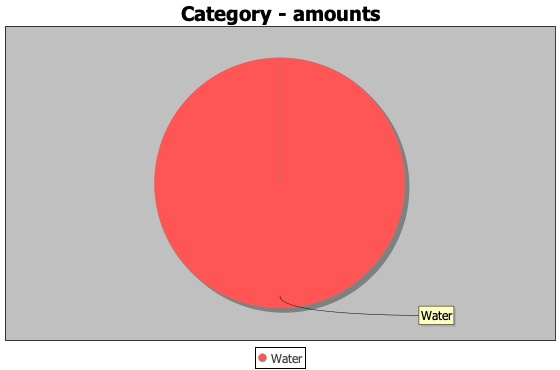
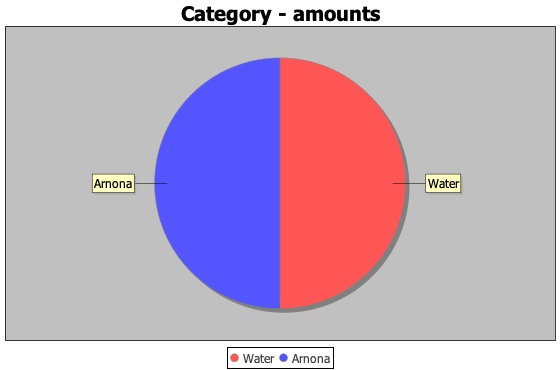
addCostItem test done

diff --git a/tests/costManager/model/DerbyDBModelTest.java b/tests/costManager/model/DerbyDBModelTest.java
@@ -1,51 +1,61 @@
-//package costManager.model;
-//
-//import org.junit.After;
-//import org.junit.Before;
-//import org.junit.Test;
-//
-//import static org.junit.Assert.*;
-//import costManager.model.*;
-//
-//public class DerbyDBModelTest {
-//
-//    private DerbyDBModel model = new DerbyDBModel();
-//    CostItem item;
-//    Category cat;
-//    @Before
-//    public void setUp() throws Exception {
-//        model.createConnection();
-//        cat = new Category(1,"Water");
-//        item = new CostItem(10, cat,45.5, Currency.ILS,"Salary","2020-02-20");
-//
-//    }
-//
-//    @After
-//    public void tearDown() throws Exception {
-//        cat = null;
-//        item = null;
-//        model.stopConnection();
-//    }
-//
-//    @Test
-//    public void addCostItem() throws CostManagerException {
-//        String expected = "Problem with adding cost!";
-//        assertEquals(expected, model.addCostItem(),null);
-//    }
-//
-//    @Test
-//    public void deleteCostItem() {
-//    }
-//
-//    @Test
-//    public void addNewCategory() {
-//    }
-//
-//    @Test
-//    public void getCostReport() {
-//    }
-//
-//    @Test
-//    public void getPieChart() {
-//    }
-//}
+package costManager.model;
+
+import org.junit.After;
+import org.junit.Before;
+import org.junit.Test;
+
+import static org.junit.Assert.*;
+import costManager.model.*;
+
+public class DerbyDBModelTest {
+
+    private DerbyDBModel model = new DerbyDBModel();
+    CostItem item;
+    Category cat;
+    @Before
+    public void setUp() throws Exception {
+        model.createConnection();
+        cat = new Category(1,"Water");
+        item = new CostItem(10, cat,45.5, Currency.ILS,"Salary","2020-02-20");
+
+    }
+
+    @After
+    public void tearDown() throws Exception {
+        cat = null;
+        item = null;
+        model.stopConnection();
+    }
+
+    @Test
+    public void addCostItem(){
+        String expected = "Problem with adding cost!";
+        try {
+            model.addCostItem(item);
+        } catch (CostManagerException e) {
+            assertEquals(expected,e.getMessage());
+        }
+    }
+
+    @Test
+    public void deleteCostItem() {
+    }
+
+    @Test
+    public void addNewCategory() {
+        String expected = "Problem with adding cost!";
+        try {
+            model.addNewCategory(cat);
+        } catch (CostManagerException e) {
+            assertEquals(expected,e.getMessage());
+        }
+    }
+
+    @Test
+    public void getCostReport() {
+    }
+
+    @Test
+    public void getPieChart() {
+    }
+}

diff --git a/src/costManager/model/Demo.java b/src/costManager/model/Demo.java
@@ -20,7 +20,7 @@ public class Demo {
 //            for(int i = 0; i<categoryList.size(); i++) {
 //                System.out.println(categoryList.get(i));
 //            }
-//            CostItem item = new CostItem(10, categoryList.get(2),45.5, Currency.ILS,"Salary","2020-02-20");
+//            CostItem item = new CostItem(10, categoryList.get(2),45.5, Currency.ILS,"Salary","2019-02-20");
 //            CostItem item1 = new CostItem(45, categoryList.get(3),21, Currency.GBP,"Salary","2020-03-20");
 //            CostItem item2 = new CostItem(4, categoryList.get(0),45.5, Currency.ILS,"Pay","2020-04-12");
 //            CostItem item3 = new CostItem(1, categoryList.get(3),12, Currency.USD,"Pay","2020-04-12");
@@ -31,7 +31,7 @@ public class Demo {
 //            model.addCostItem(item2);
 //            model.addCostItem(item3);
 //            model.getCostReport("2020-01-01", "2020-03-31");
-            model.getPieChart("2020-12-01", "2020-12-31");
+            model.getPieChart("2019-01-01", "2020-03-31");
         }catch (CostManagerException e) {
             throw new CostManagerException("cant", e);
         }
